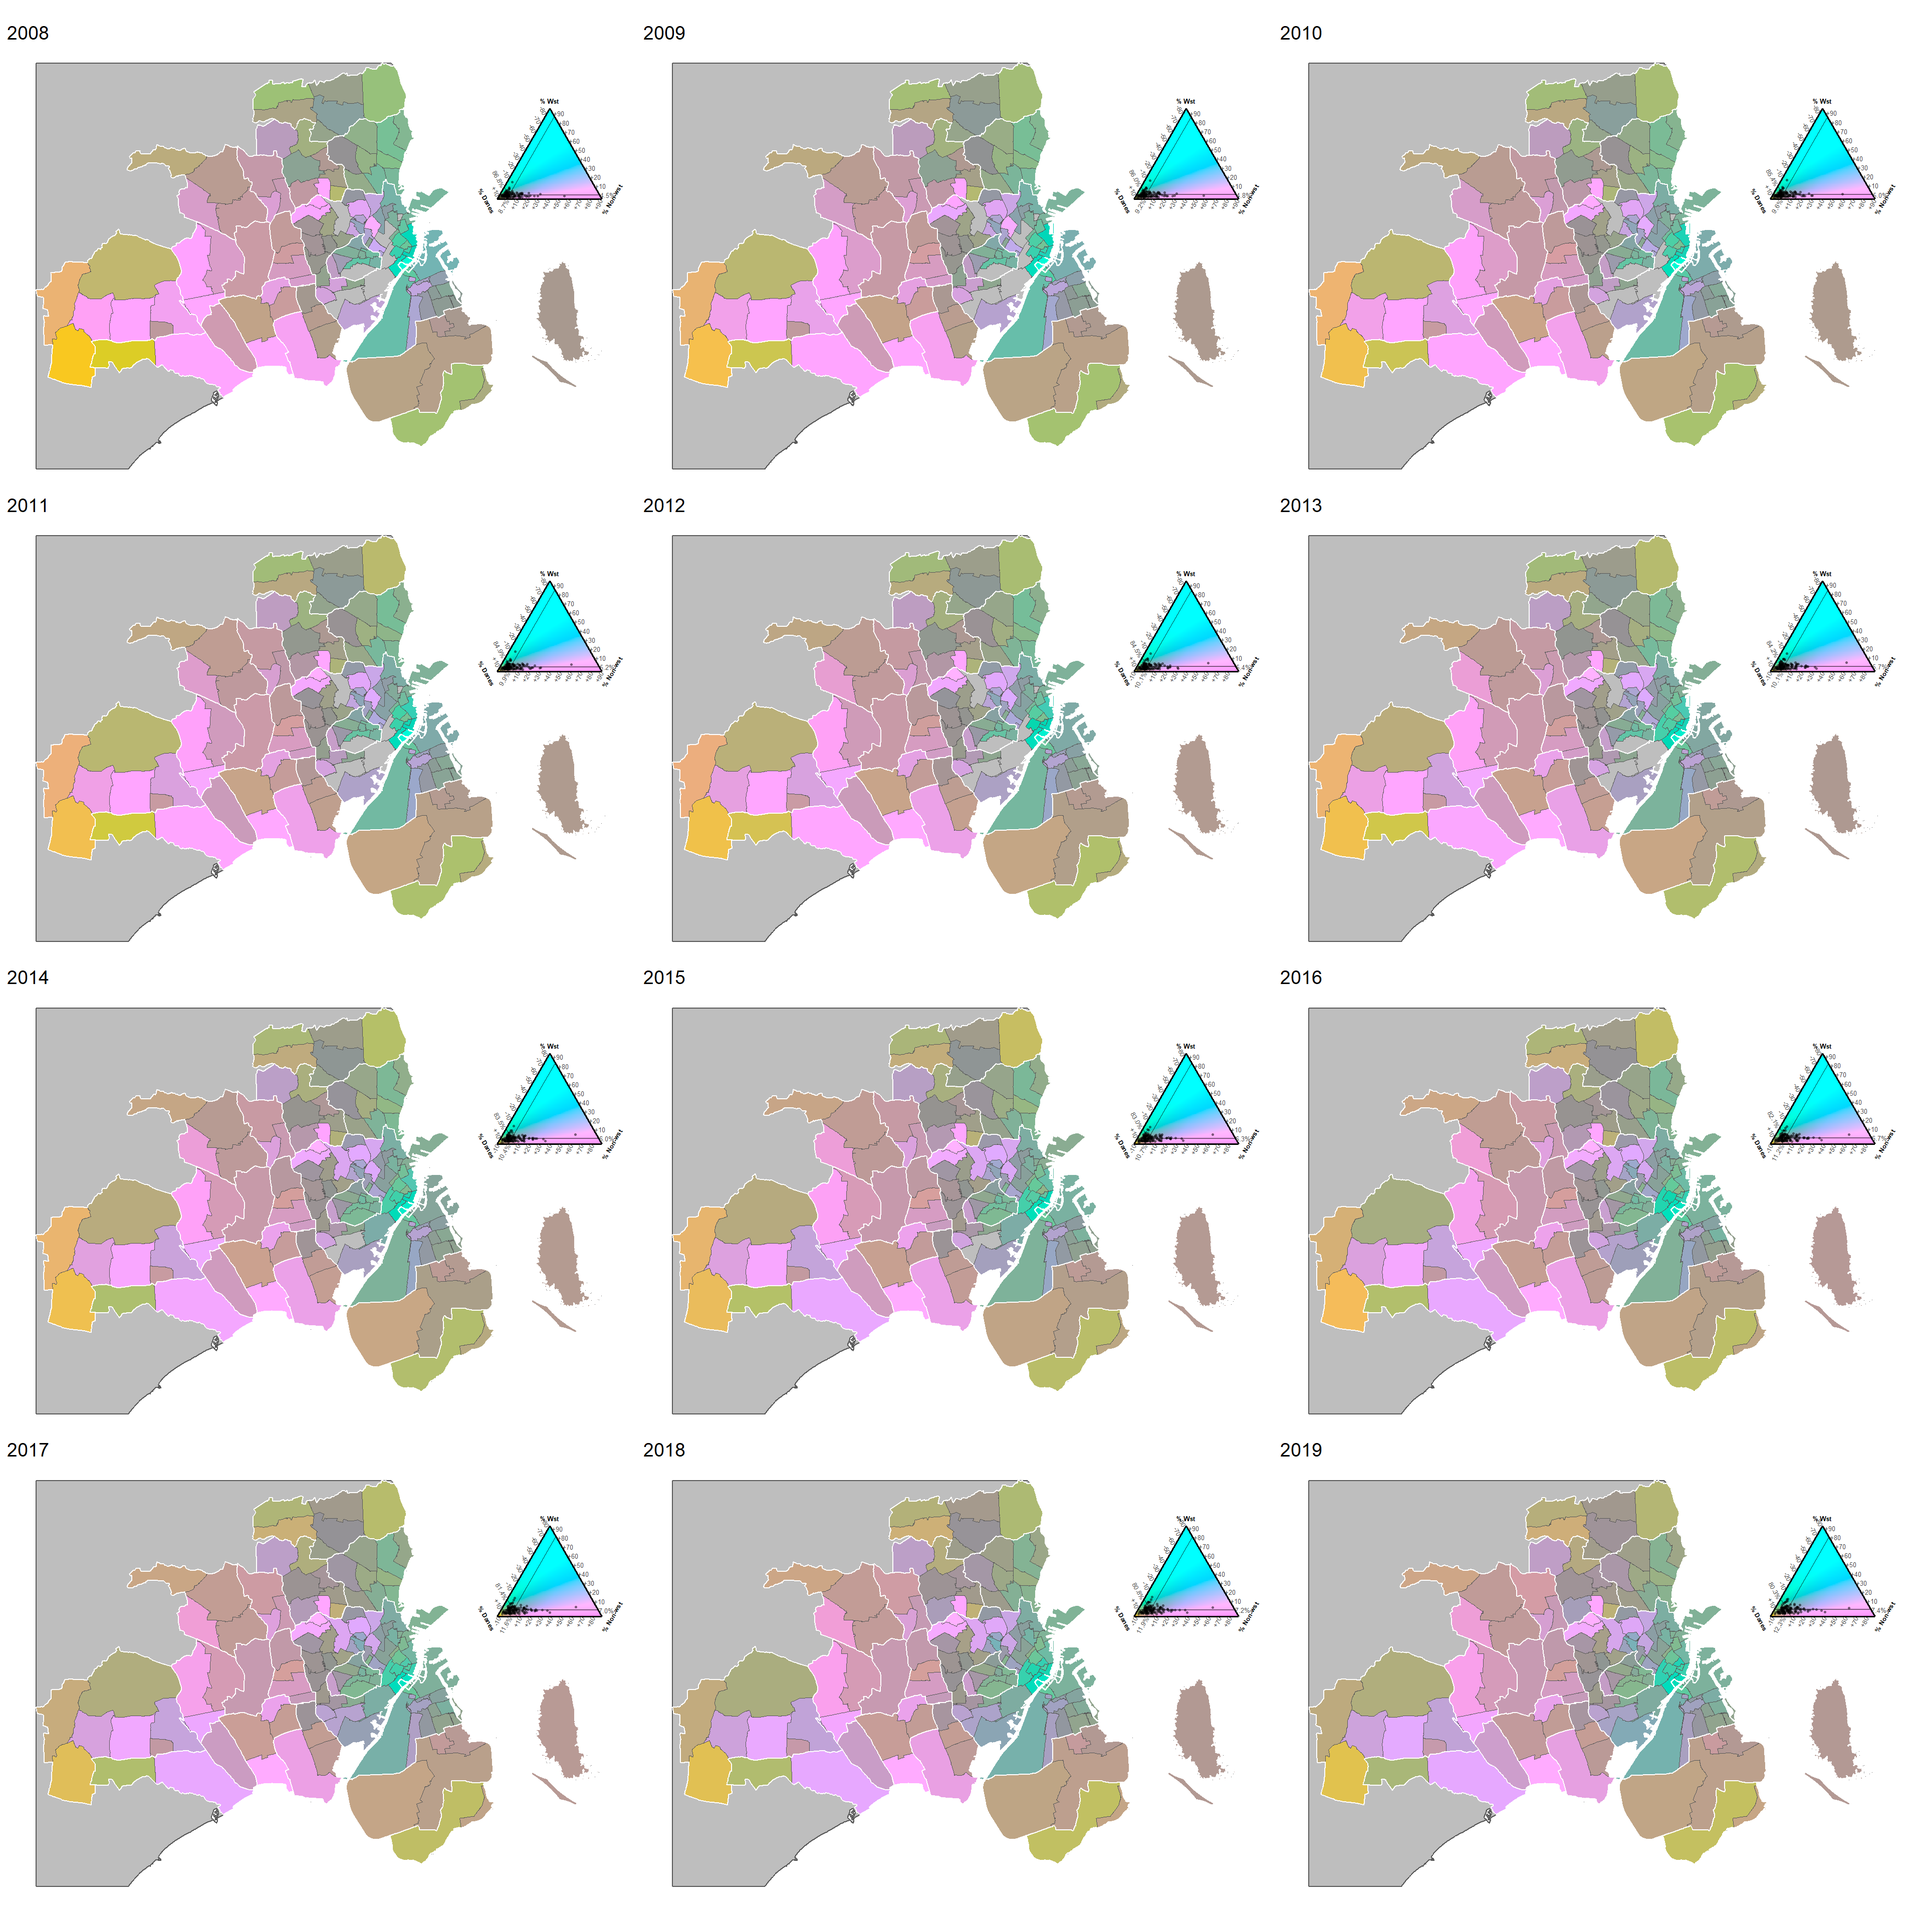
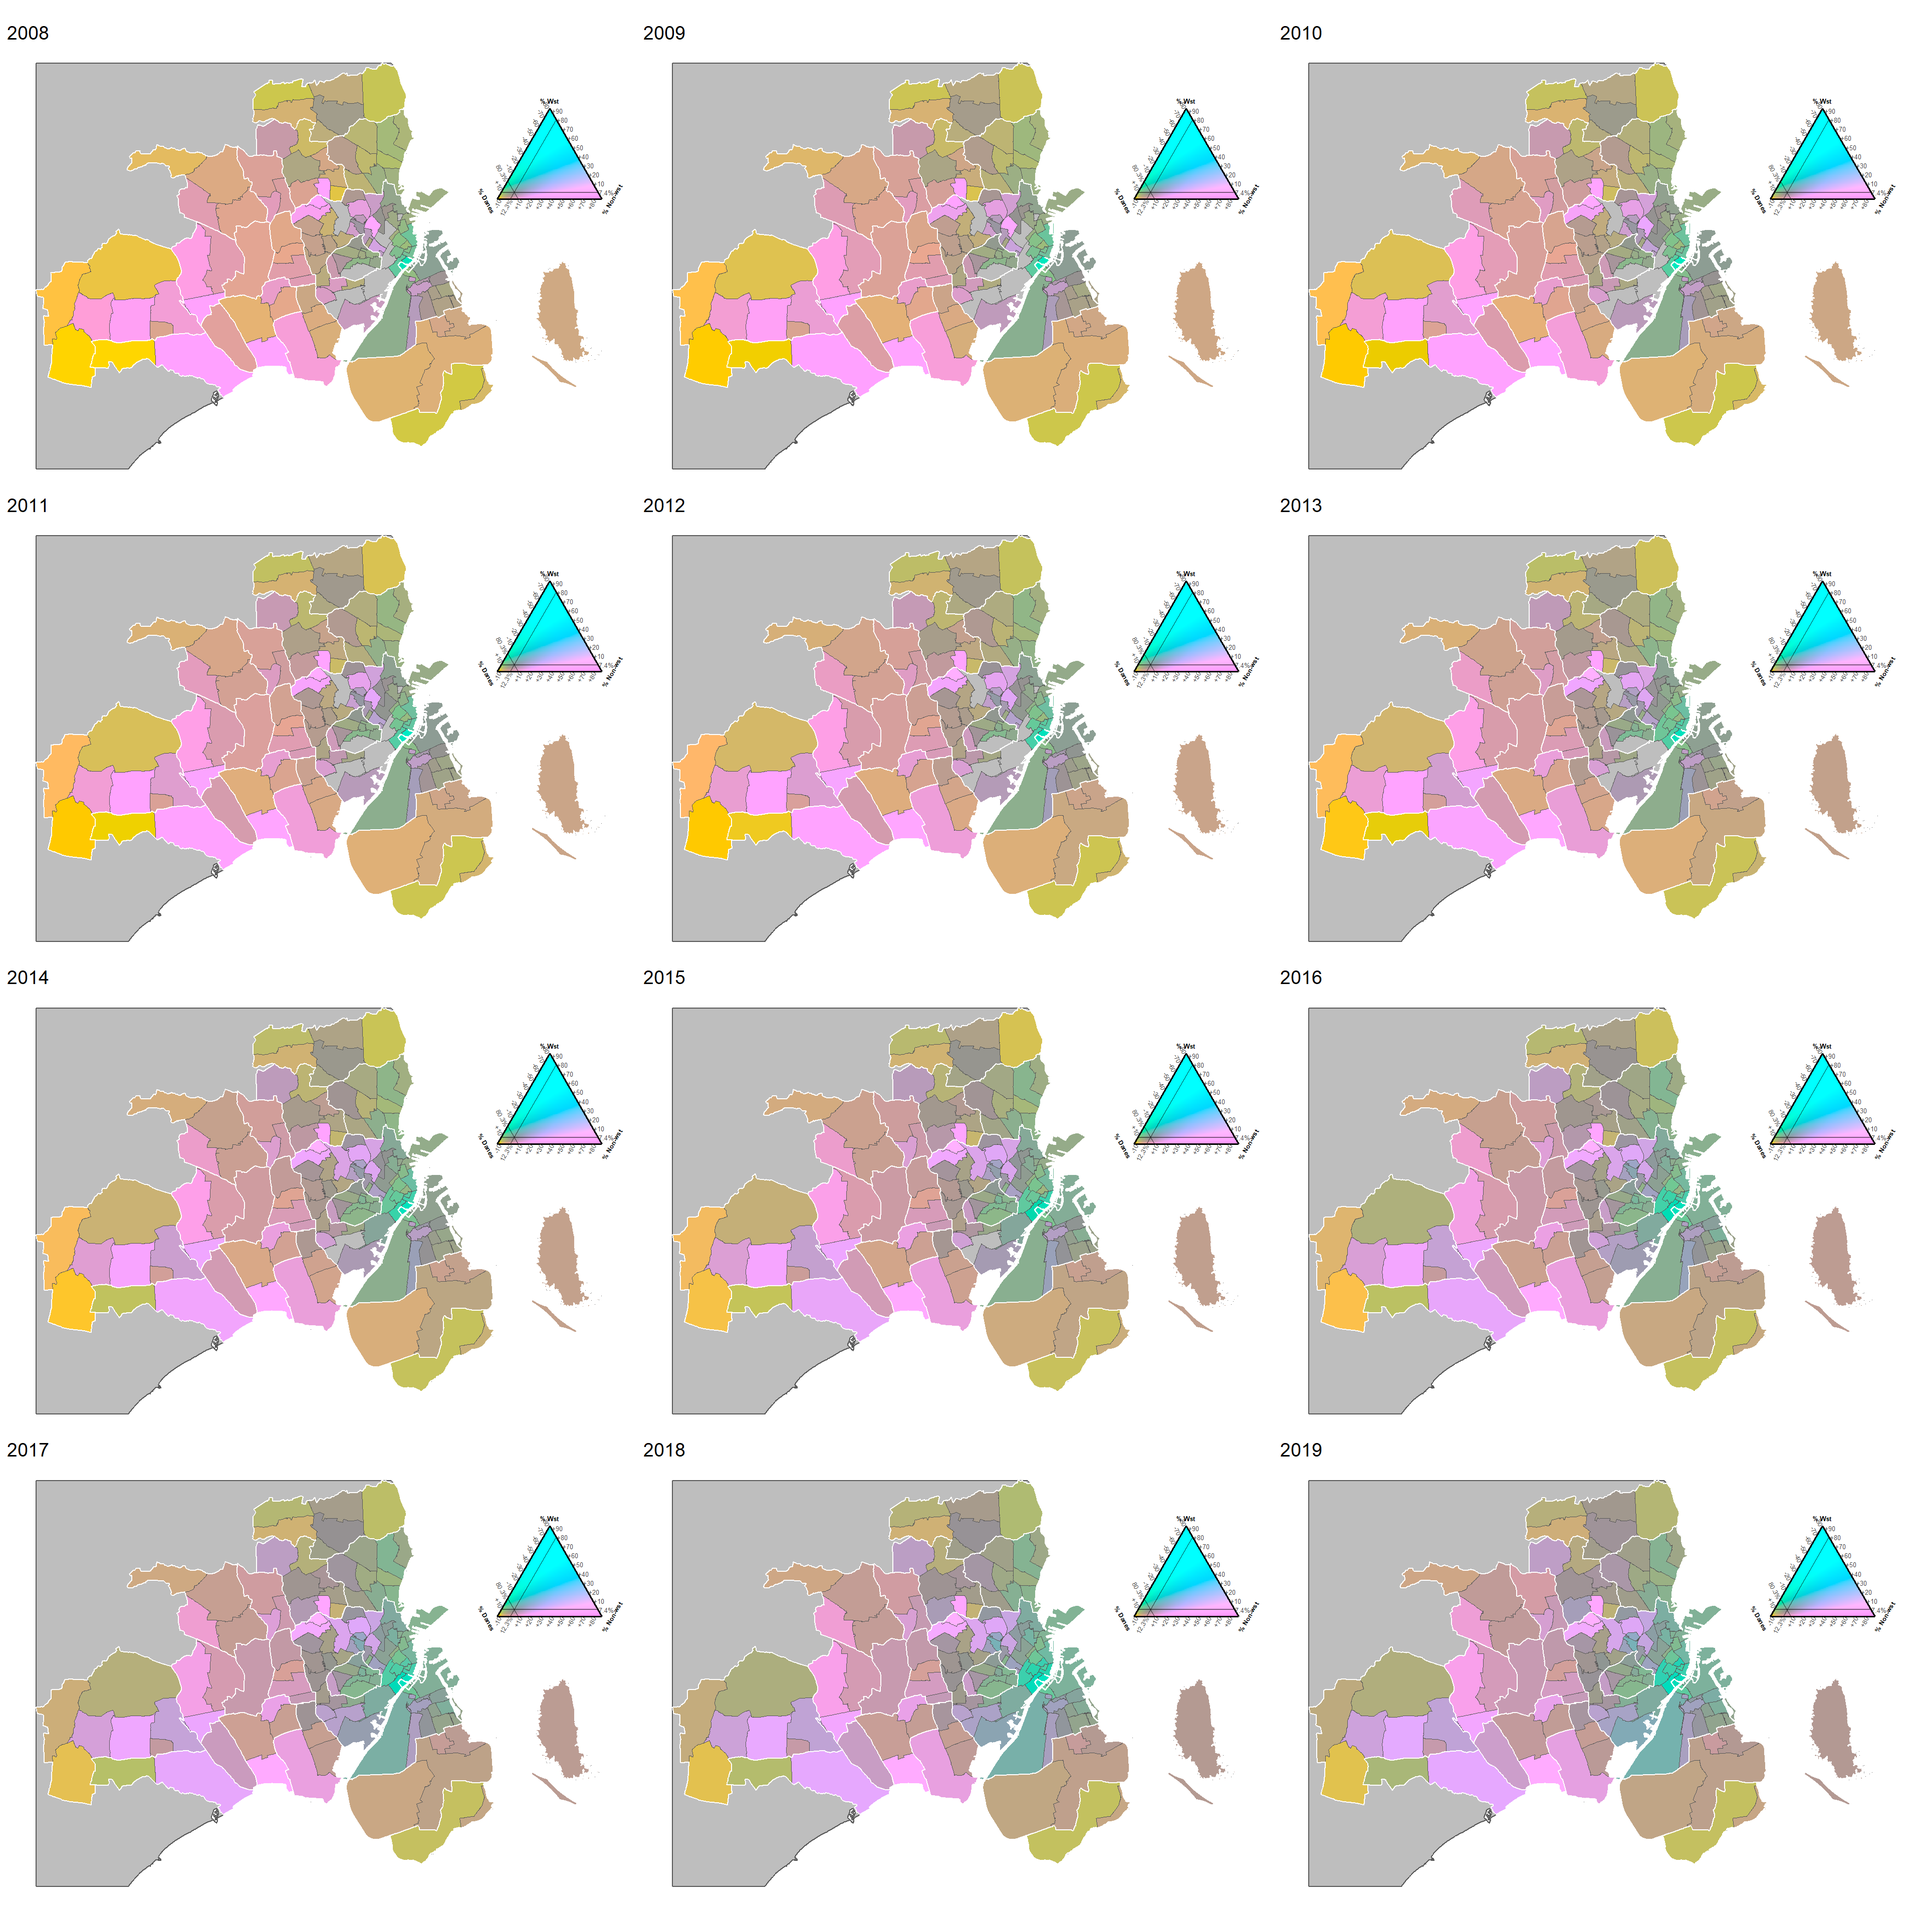
Ternary maps: center over the compositional mean of 2019 (i.e. Danes ~ 80.3%; non-wst ~ 12.3; and wst ~ 7.4%)

diff --git a/_book/level-parish.html b/_book/level-parish.html
@@ -1438,7 +1438,7 @@ Figure 3.10: ternary plot by year
 Figure 3.11: Ternary plots by parish
 </p>
 </div>
-<p>Ternary maps: center over the compositional mean of each data.</p>
+<p>Ternary maps: center over the compositional mean of 2019 (i.e. Danes ~ 80.3%; non-wst ~ 12.3; and wst ~ 7.4%).</p>
 <div class="sourceCode" id="cb17"><pre class="sourceCode r"><code class="sourceCode r"><span id="cb17-1"><a href="level-parish.html#cb17-1" aria-hidden="true" tabindex="-1"></a>f_tern_map <span class="ot">&lt;-</span> <span class="cf">function</span>(df) {</span>
 <span id="cb17-2"><a href="level-parish.html#cb17-2" aria-hidden="true" tabindex="-1"></a></span>
 <span id="cb17-3"><a href="level-parish.html#cb17-3" aria-hidden="true" tabindex="-1"></a><span class="co"># Make colours</span></span>
@@ -1447,8 +1447,8 @@ Figure 3.11: Ternary plots by parish
 <span id="cb17-6"><a href="level-parish.html#cb17-6" aria-hidden="true" tabindex="-1"></a>                             <span class="at">p2 =</span> <span class="st">&quot;pop_frgn_wst&quot;</span>,</span>
 <span id="cb17-7"><a href="level-parish.html#cb17-7" aria-hidden="true" tabindex="-1"></a>                             <span class="at">p3 =</span> <span class="st">&quot;pop_frgn_nwst&quot;</span>,</span>
 <span id="cb17-8"><a href="level-parish.html#cb17-8" aria-hidden="true" tabindex="-1"></a>                             <span class="at">breaks =</span> <span class="cn">Inf</span>,</span>
-<span id="cb17-9"><a href="level-parish.html#cb17-9" aria-hidden="true" tabindex="-1"></a>                             <span class="at">show_data =</span> <span class="cn">TRUE</span>,</span>
-<span id="cb17-10"><a href="level-parish.html#cb17-10" aria-hidden="true" tabindex="-1"></a>                             <span class="at">center =</span> <span class="cn">NA</span>,</span>
+<span id="cb17-9"><a href="level-parish.html#cb17-9" aria-hidden="true" tabindex="-1"></a>                             <span class="at">show_data =</span> <span class="cn">FALSE</span>,</span>
+<span id="cb17-10"><a href="level-parish.html#cb17-10" aria-hidden="true" tabindex="-1"></a>                             <span class="at">center =</span> <span class="fu">c</span>(<span class="fl">0.803</span>, <span class="fl">0.074</span>, <span class="fl">0.123</span>),</span>
 <span id="cb17-11"><a href="level-parish.html#cb17-11" aria-hidden="true" tabindex="-1"></a>                             <span class="at">hue =</span> <span class="dv">2</span><span class="sc">/</span><span class="dv">12</span>,</span>
 <span id="cb17-12"><a href="level-parish.html#cb17-12" aria-hidden="true" tabindex="-1"></a>                             <span class="at">lightness =</span> <span class="dv">1</span>,</span>
 <span id="cb17-13"><a href="level-parish.html#cb17-13" aria-hidden="true" tabindex="-1"></a>                             <span class="at">chroma =</span> <span class="dv">1</span></span>
